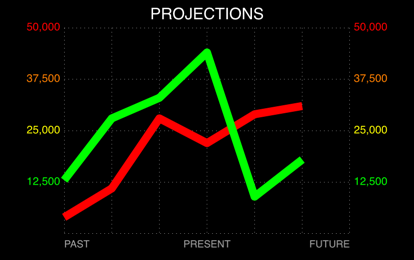
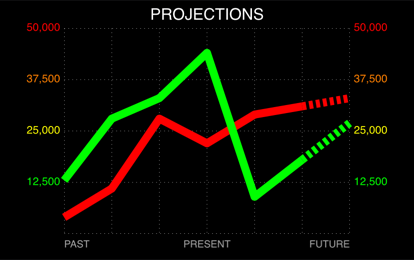
added fourth demo

diff --git a/Sources/Graffeine-Demo/Main/Scatterplot/ScatterplotConfig.swift b/Sources/Graffeine-Demo/Main/Scatterplot/ScatterplotConfig.swift
@@ -1,0 +1,49 @@
+import UIKit
+import Graffeine
+
+class ScatterplotConfig: GraffeineViewConfig {
+
+    enum ID: Hashable {
+        case topGutter, rightGutter, bottomGutter, leftGutter
+        case hGrid, vGrid, vectorPlots, imagePlots
+    }
+
+    required init(_ graffeineView: GraffeineView) {
+        super.init(graffeineView)
+
+        let unitMargin: CGFloat = 0.0
+
+        graffeineView.layers = [
+
+            GraffeineHorizontalGutter(id: ID.topGutter, height: 28, region: .topGutter),
+
+            GraffeineVerticalGutter(id: ID.rightGutter, width: 64, region: .rightGutter),
+
+            GraffeineHorizontalGutter(id: ID.bottomGutter, height: 26, region: .bottomGutter),
+
+            GraffeineVerticalGutter(id: ID.leftGutter, width: 64, region: .leftGutter),
+
+            GraffeineGridLineLayer(id: ID.hGrid)
+                .apply ({
+                    $0.flipXY = true
+                    $0.colors = [UIColor(white: 0.0, alpha: 0.5)]
+                    $0.thickness = 1.0
+                }),
+
+            GraffeineGridLineLayer(id: ID.vGrid)
+                .apply ({
+                    $0.colors = [UIColor(white: 0.0, alpha: 0.5)]
+                    $0.thickness = 1.0
+                }),
+
+            GraffeinePlotLayer(id: ID.vectorPlots)
+                .apply ({
+                    $0.colors = [.black]
+                    $0.unitMargin = unitMargin
+                    $0.plotDiameter = 12.0
+                    $0.plotBorderThickness = 3.0
+                    $0.plotBorderColors = [.white]
+                })
+        ]
+    }
+}

diff --git a/Sources/Graffeine-Demo/Main/RedGreenLines/RedGreenLinesConfig.swift b/Sources/Graffeine-Demo/Main/RedGreenLines/RedGreenLinesConfig.swift
@@ -5,7 +5,7 @@ class RedGreenLinesConfig: GraffeineViewConfig {
 
     enum ID: Hashable {
         case topGutter, rightGutter, bottomGutter, leftGutter
-        case hGrid, vGrid, redLine, greenLine
+        case hGrid, vGrid, redLine, redLineProj, greenLine, greenLineProj
     }
 
     required init(_ graffeineView: GraffeineView) {
@@ -83,6 +83,15 @@ class RedGreenLinesConfig: GraffeineViewConfig {
                     $0.lineJoin = .round
                 }),
 
+            GraffeineLineLayer(id: ID.redLineProj)
+                .apply ({
+                    $0.colors = [.red]
+                    $0.unitMargin = unitMargin
+                    $0.dashPattern = [4, 3]
+                    $0.thickness = 8.0
+                    $0.lineJoin = .round
+                }),
+
             GraffeineLineLayer(id: ID.greenLine)
                 .apply ({
                     $0.colors = [.green]
@@ -90,6 +99,15 @@ class RedGreenLinesConfig: GraffeineViewConfig {
                     $0.thickness = 8.0
                     $0.lineJoin = .round
                 }),
+
+        GraffeineLineLayer(id: ID.greenLineProj)
+            .apply ({
+                $0.colors = [.green]
+                $0.unitMargin = unitMargin
+                $0.dashPattern = [4, 3]
+                $0.thickness = 8.0
+                $0.lineJoin = .round
+            })
         ]
     }
 }

diff --git a/Sources/Graffeine-Demo/Main/MainViewController.swift b/Sources/Graffeine-Demo/Main/MainViewController.swift
@@ -12,7 +12,7 @@ class MainViewController: UIViewController {
 extension MainViewController: UITableViewDataSource, UITableViewDelegate {
 
     func numberOfSections(in tableView: UITableView) -> Int {
-        return 3
+        return 4
     }
 
     func tableView(_ tableView: UITableView, numberOfRowsInSection section: Int) -> Int {
@@ -33,6 +33,7 @@ extension MainViewController: UITableViewDataSource, UITableViewDelegate {
         case 0: return "Vertical Descending Bars"
         case 1: return "Red Green Lines"
         case 2: return "Horizontal Grouped Bars"
+        case 3: return "Scatter Plot"
         default: return ""
         }
     }
@@ -42,6 +43,7 @@ extension MainViewController: UITableViewDataSource, UITableViewDelegate {
         case (0, 0): return "VerticalDescendingBarsCell"
         case (1, 0): return "RedGreenLinesCell"
         case (2, 0): return "HorizontalGroupedBarsCell"
+        case (3, 0): return "ScatterplotCell"
         default: return "VerticalDescendingBarsCell"
         }
     }

diff --git a/Sources/Graffeine-Demo/Main/Scatterplot/ScatterplotCell.swift b/Sources/Graffeine-Demo/Main/Scatterplot/ScatterplotCell.swift
@@ -1,0 +1,27 @@
+import UIKit
+import Graffeine
+
+class ScatterplotCell: UITableViewCell, DataAppliable {
+
+    typealias LayerID = ScatterplotConfig.ID
+    
+    @IBOutlet weak var graffeineView: GraffeineView!
+
+    func applyData() {
+        let values: [Double?] = [0, 10, 30, nil, 20, 40, 5, 30, 25, 45, 10, 25, 50]
+        graffeineView.layer(id: LayerID.hGrid)?.apply {
+            let max = values.count - 1
+            let marks = Array(0...max).map { Double($0) }
+            $0.data = GraffeineLayer.Data(valueMax: Double(max), values: marks)
+        }
+
+        graffeineView.layer(id: LayerID.vGrid)?.apply {
+            let marks = Array(stride(from: 0.0, through: 50.0, by: 5.0))
+            $0.data = GraffeineLayer.Data(valueMax: 50, values: marks)
+        }
+
+        graffeineView.layer(id: LayerID.vectorPlots)?.apply {
+            $0.data = GraffeineLayer.Data(valueMax: 50, values: values)
+        }
+    }
+}

diff --git a/Sources/Graffeine-Demo/Main/RedGreenLines/RedGreenLinesCell.swift b/Sources/Graffeine-Demo/Main/RedGreenLines/RedGreenLinesCell.swift
@@ -12,8 +12,16 @@ class RedGreenLinesCell: UITableViewCell, DataAppliable {
             $0.data = GraffeineLayer.Data(valueMax: 50, values: [4, 11, 28, 22, 29, 31, nil])
         }
 
+        graffeineView.layer(id: LayerID.redLineProj)?.apply {
+            $0.data = GraffeineLayer.Data(valueMax: 50, values: [nil, nil, nil, nil, nil, 31, 33])
+        }
+
         graffeineView.layer(id: LayerID.greenLine)?.apply {
             $0.data = GraffeineLayer.Data(valueMax: 50, values: [13, 28, 33, 44, 9, 18, nil])
+        }
+
+        graffeineView.layer(id: LayerID.greenLineProj)?.apply {
+            $0.data = GraffeineLayer.Data(valueMax: 50, values: [nil, nil, nil, nil, nil, 18, 27])
         }
     }
 }

diff --git a/README.md b/README.md
@@ -21,3 +21,7 @@ Here are a few lo-res examples:
  
  <br />
 
+ ![sample_4](docs/sample_4.png)
+  
+  <br />
+
